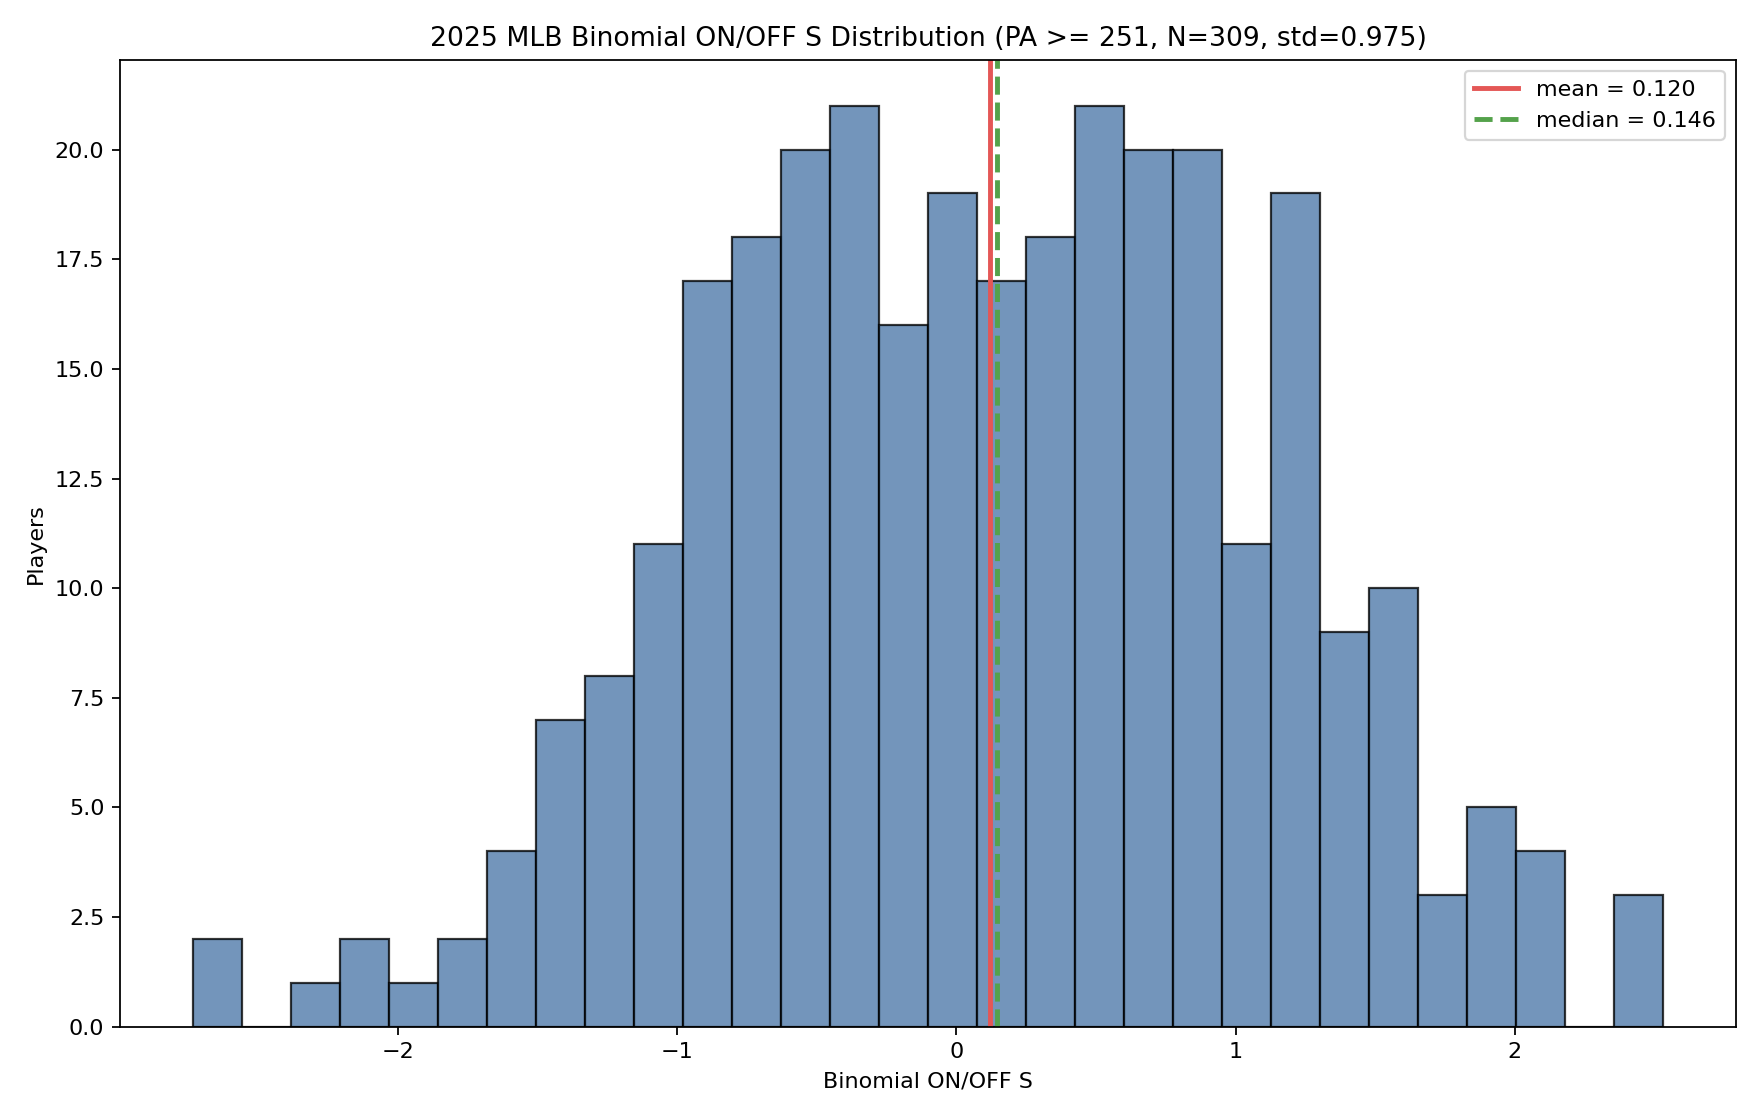
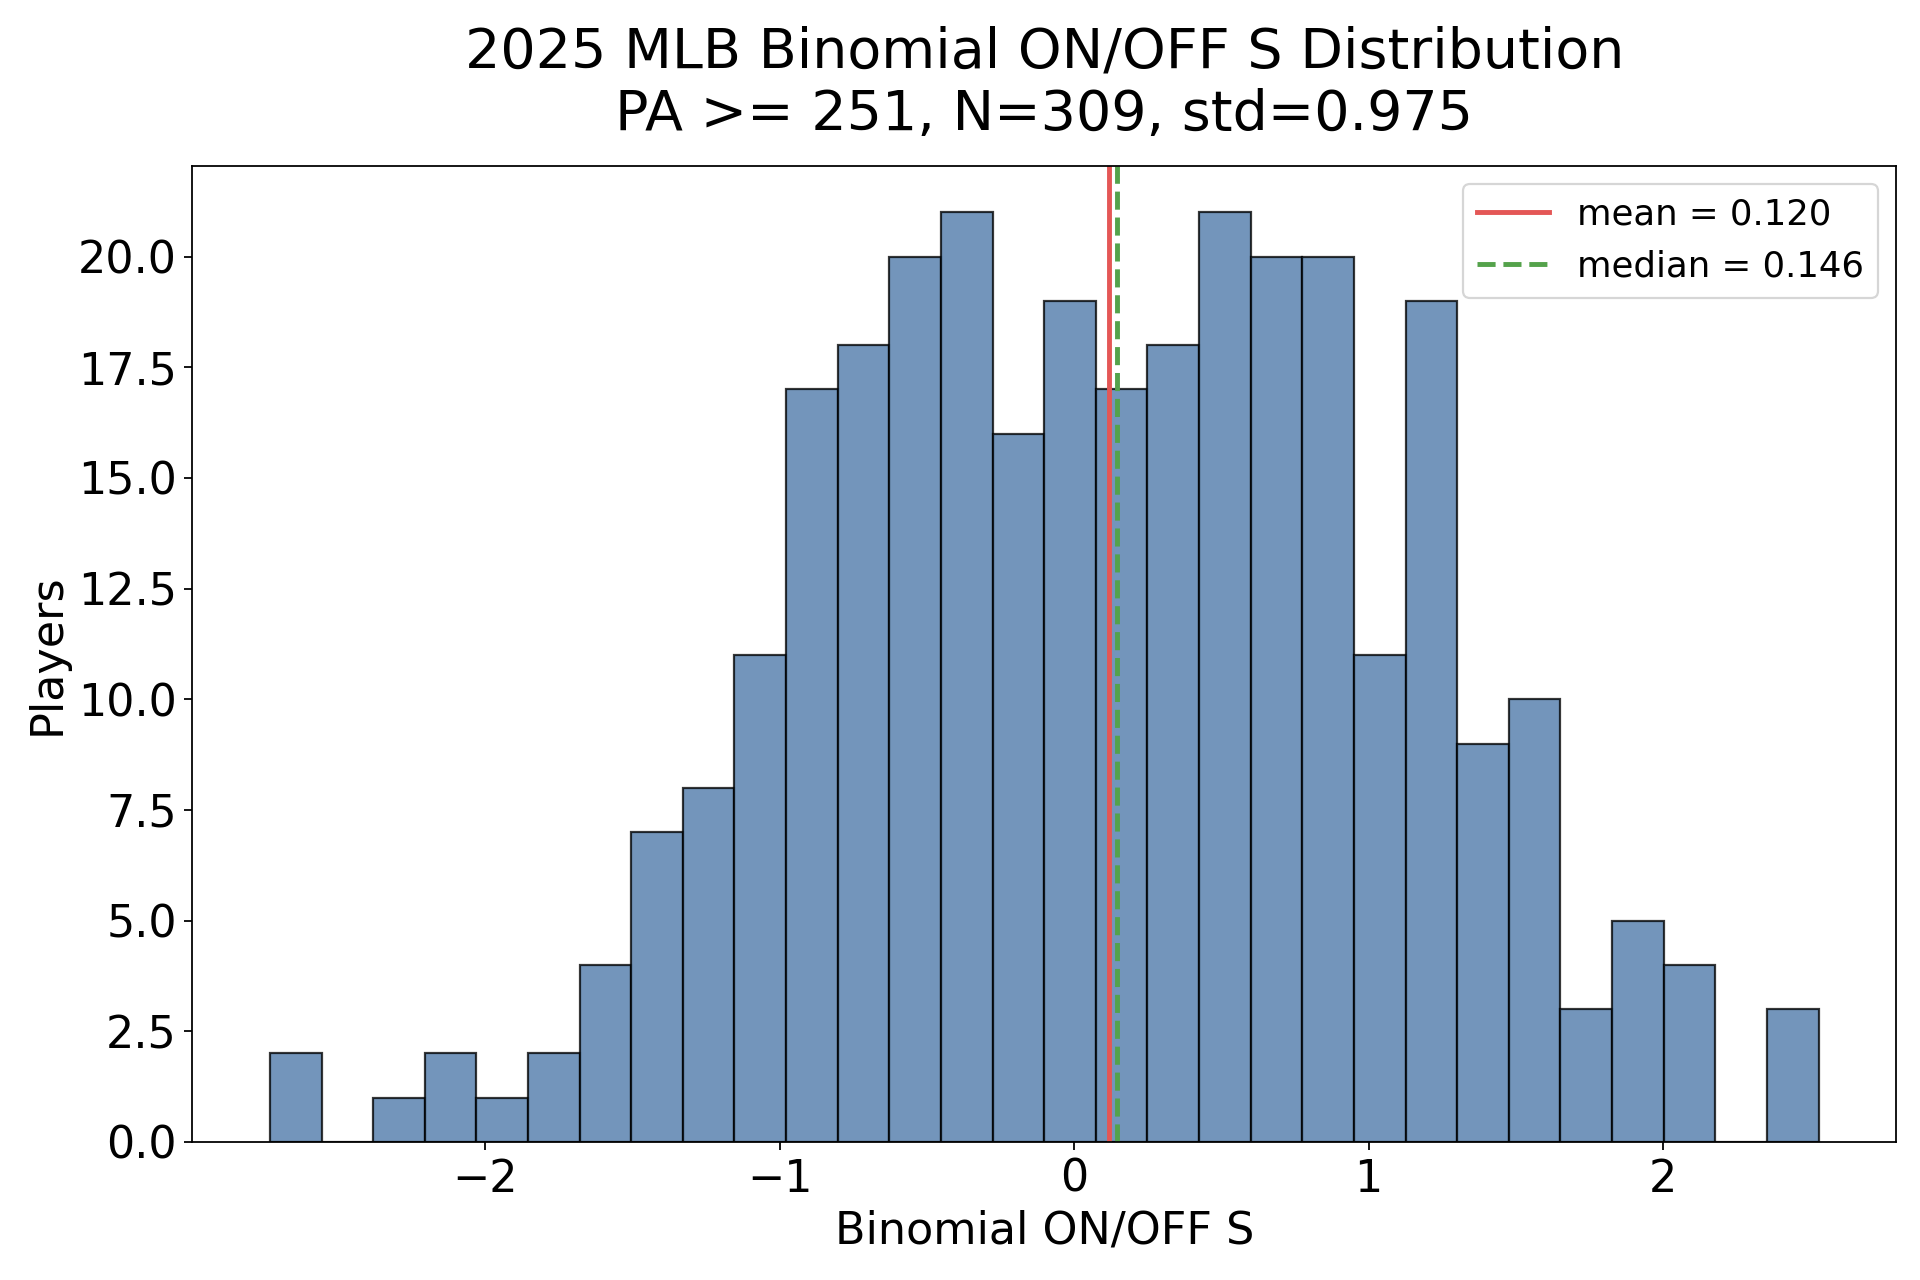
Increase histogram font sizes

diff --git a/Script/plot_RISP_histogram.py b/Script/plot_RISP_histogram.py
@@ -6,6 +6,66 @@ import matplotlib.pyplot as plt
 import pandas as pd
 
 
+TITLE_FONT_SIZE = 25
+LABEL_FONT_SIZE = 20
+TICK_FONT_SIZE = 20
+LEGEND_FONT_SIZE = 16
+
+
+def build_histogram(input_path, min_pa, bins):
+    df = pd.read_csv(input_path)
+    filtered = df[df["total_pa"] >= min_pa].dropna(subset=["S"]).copy()
+    if filtered.empty:
+        raise ValueError(f"No rows found with total_pa >= {min_pa} and valid S.")
+
+    s_values = filtered["S"]
+    mean_s = s_values.mean()
+    median_s = s_values.median()
+    std_s = s_values.std()
+
+    fig, ax = plt.subplots(figsize=(12, 8))
+    ax.hist(
+        s_values,
+        bins=bins,
+        edgecolor="black",
+        linewidth=1.0,
+        alpha=0.78,
+        color="#4C78A8",
+    )
+    ax.axvline(
+        mean_s,
+        color="#E45756",
+        linewidth=2.2,
+        label=f"mean = {mean_s:.3f}",
+    )
+    ax.axvline(
+        median_s,
+        color="#54A24B",
+        linewidth=2.2,
+        linestyle="--",
+        label=f"median = {median_s:.3f}",
+    )
+    ax.set_xlabel("Binomial ON/OFF S", fontsize=LABEL_FONT_SIZE)
+    ax.set_ylabel("Players", fontsize=LABEL_FONT_SIZE)
+    ax.set_title(
+        f"2025 MLB Binomial ON/OFF S Distribution\n"
+        f"PA >= {min_pa}, N={len(filtered)}, std={std_s:.3f}",
+        fontsize=TITLE_FONT_SIZE,
+        pad=16,
+    )
+    ax.tick_params(axis="both", labelsize=TICK_FONT_SIZE)
+    ax.legend(fontsize=LEGEND_FONT_SIZE)
+    fig.tight_layout()
+
+    return fig, {
+        "input": input_path,
+        "players": len(filtered),
+        "mean": mean_s,
+        "median": median_s,
+        "std": std_s,
+    }
+
+
 def main():
     base_dir = Path(__file__).resolve().parents[1]
     default_input = base_dir / "Data" / "mlb_2025_RISP_sample_counts.csv"
@@ -16,48 +76,14 @@ def main():
     parser.add_argument("--bins", default=30, type=int)
     args = parser.parse_args()
 
-    df = pd.read_csv(args.input)
-    filtered = df[df["total_pa"] >= args.min_pa].dropna(subset=["S"]).copy()
-    if filtered.empty:
-        raise ValueError(f"No rows found with total_pa >= {args.min_pa} and valid S.")
-
-    s_values = filtered["S"]
-    mean_s = s_values.mean()
-    median_s = s_values.median()
-    std_s = s_values.std()
-
-    plt.figure(figsize=(11, 7))
-    plt.hist(
-        s_values,
-        bins=args.bins,
-        edgecolor="black",
-        linewidth=1.0,
-        alpha=0.78,
-        color="#4C78A8",
-    )
-    plt.axvline(mean_s, color="#E45756", linewidth=2.2, label=f"mean = {mean_s:.3f}")
-    plt.axvline(
-        median_s,
-        color="#54A24B",
-        linewidth=2.2,
-        linestyle="--",
-        label=f"median = {median_s:.3f}",
-    )
-    plt.xlabel("Binomial ON/OFF S")
-    plt.ylabel("Players")
-    plt.title(
-        f"2025 MLB Binomial ON/OFF S Distribution (PA >= {args.min_pa}, N={len(filtered)}, "
-        f"std={std_s:.3f})"
-    )
-    plt.legend()
-    plt.tight_layout()
+    _, stats = build_histogram(args.input, args.min_pa, args.bins)
     plt.show()
 
-    print(f"input: {args.input}")
-    print(f"players: {len(filtered)}")
-    print(f"S_mean: {mean_s:.6f}")
-    print(f"S_median: {median_s:.6f}")
-    print(f"S_std: {std_s:.6f}")
+    print(f"input: {stats['input']}")
+    print(f"players: {stats['players']}")
+    print(f"S_mean: {stats['mean']:.6f}")
+    print(f"S_median: {stats['median']:.6f}")
+    print(f"S_std: {stats['std']:.6f}")
 
 
 if __name__ == "__main__":
